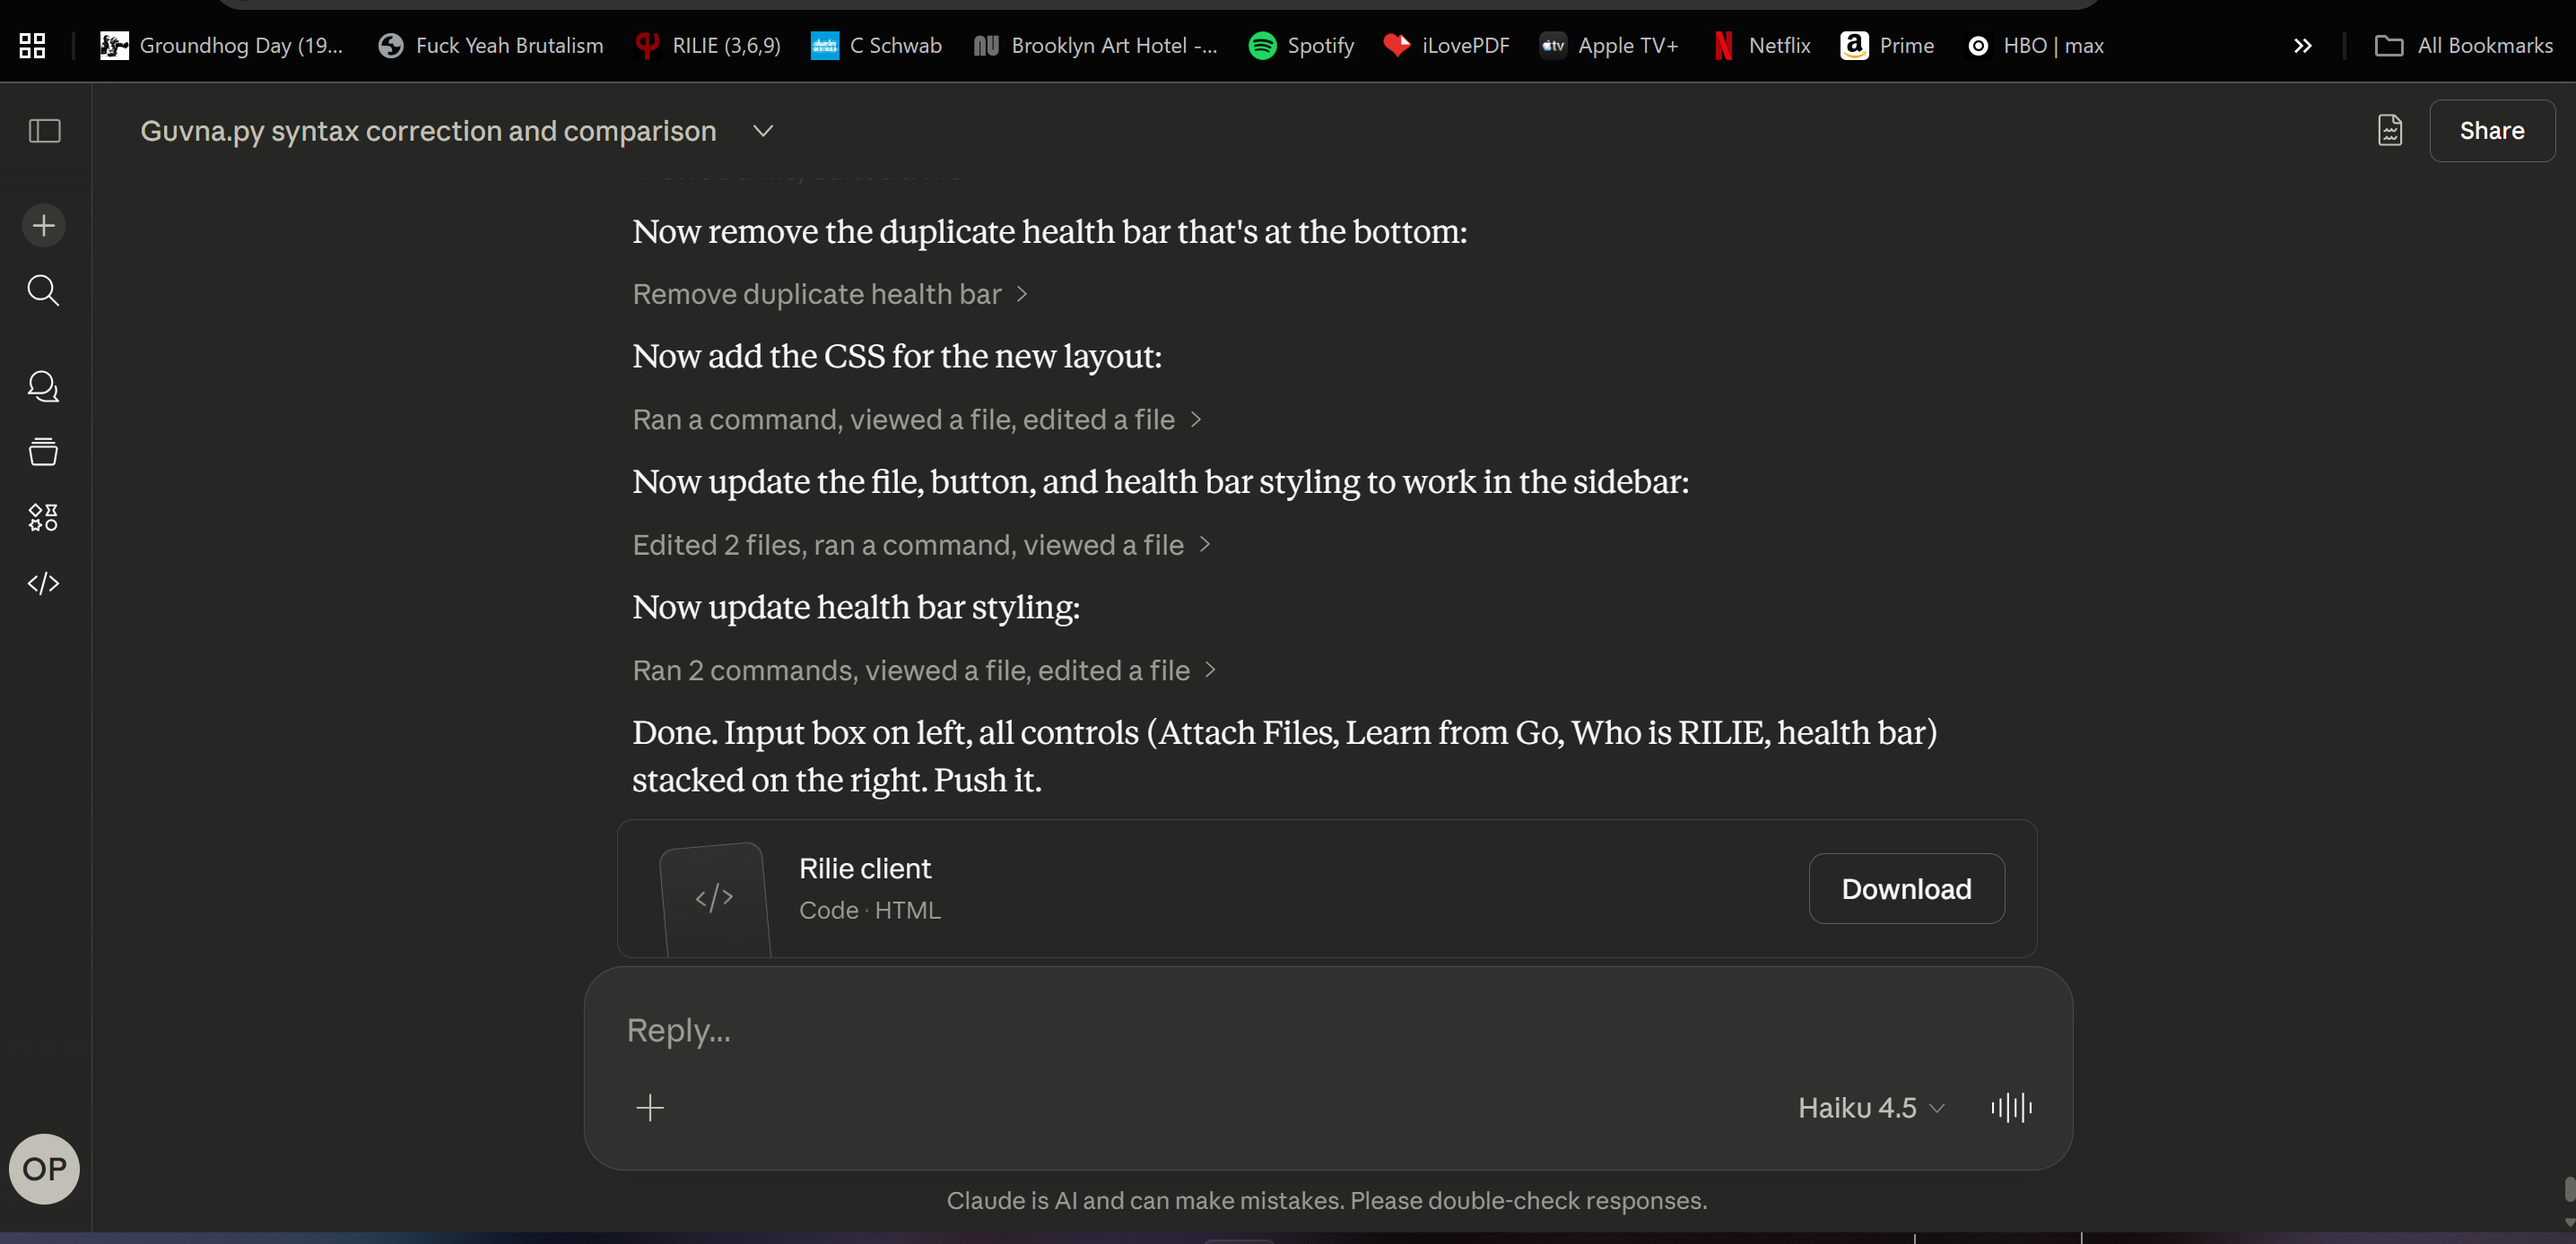
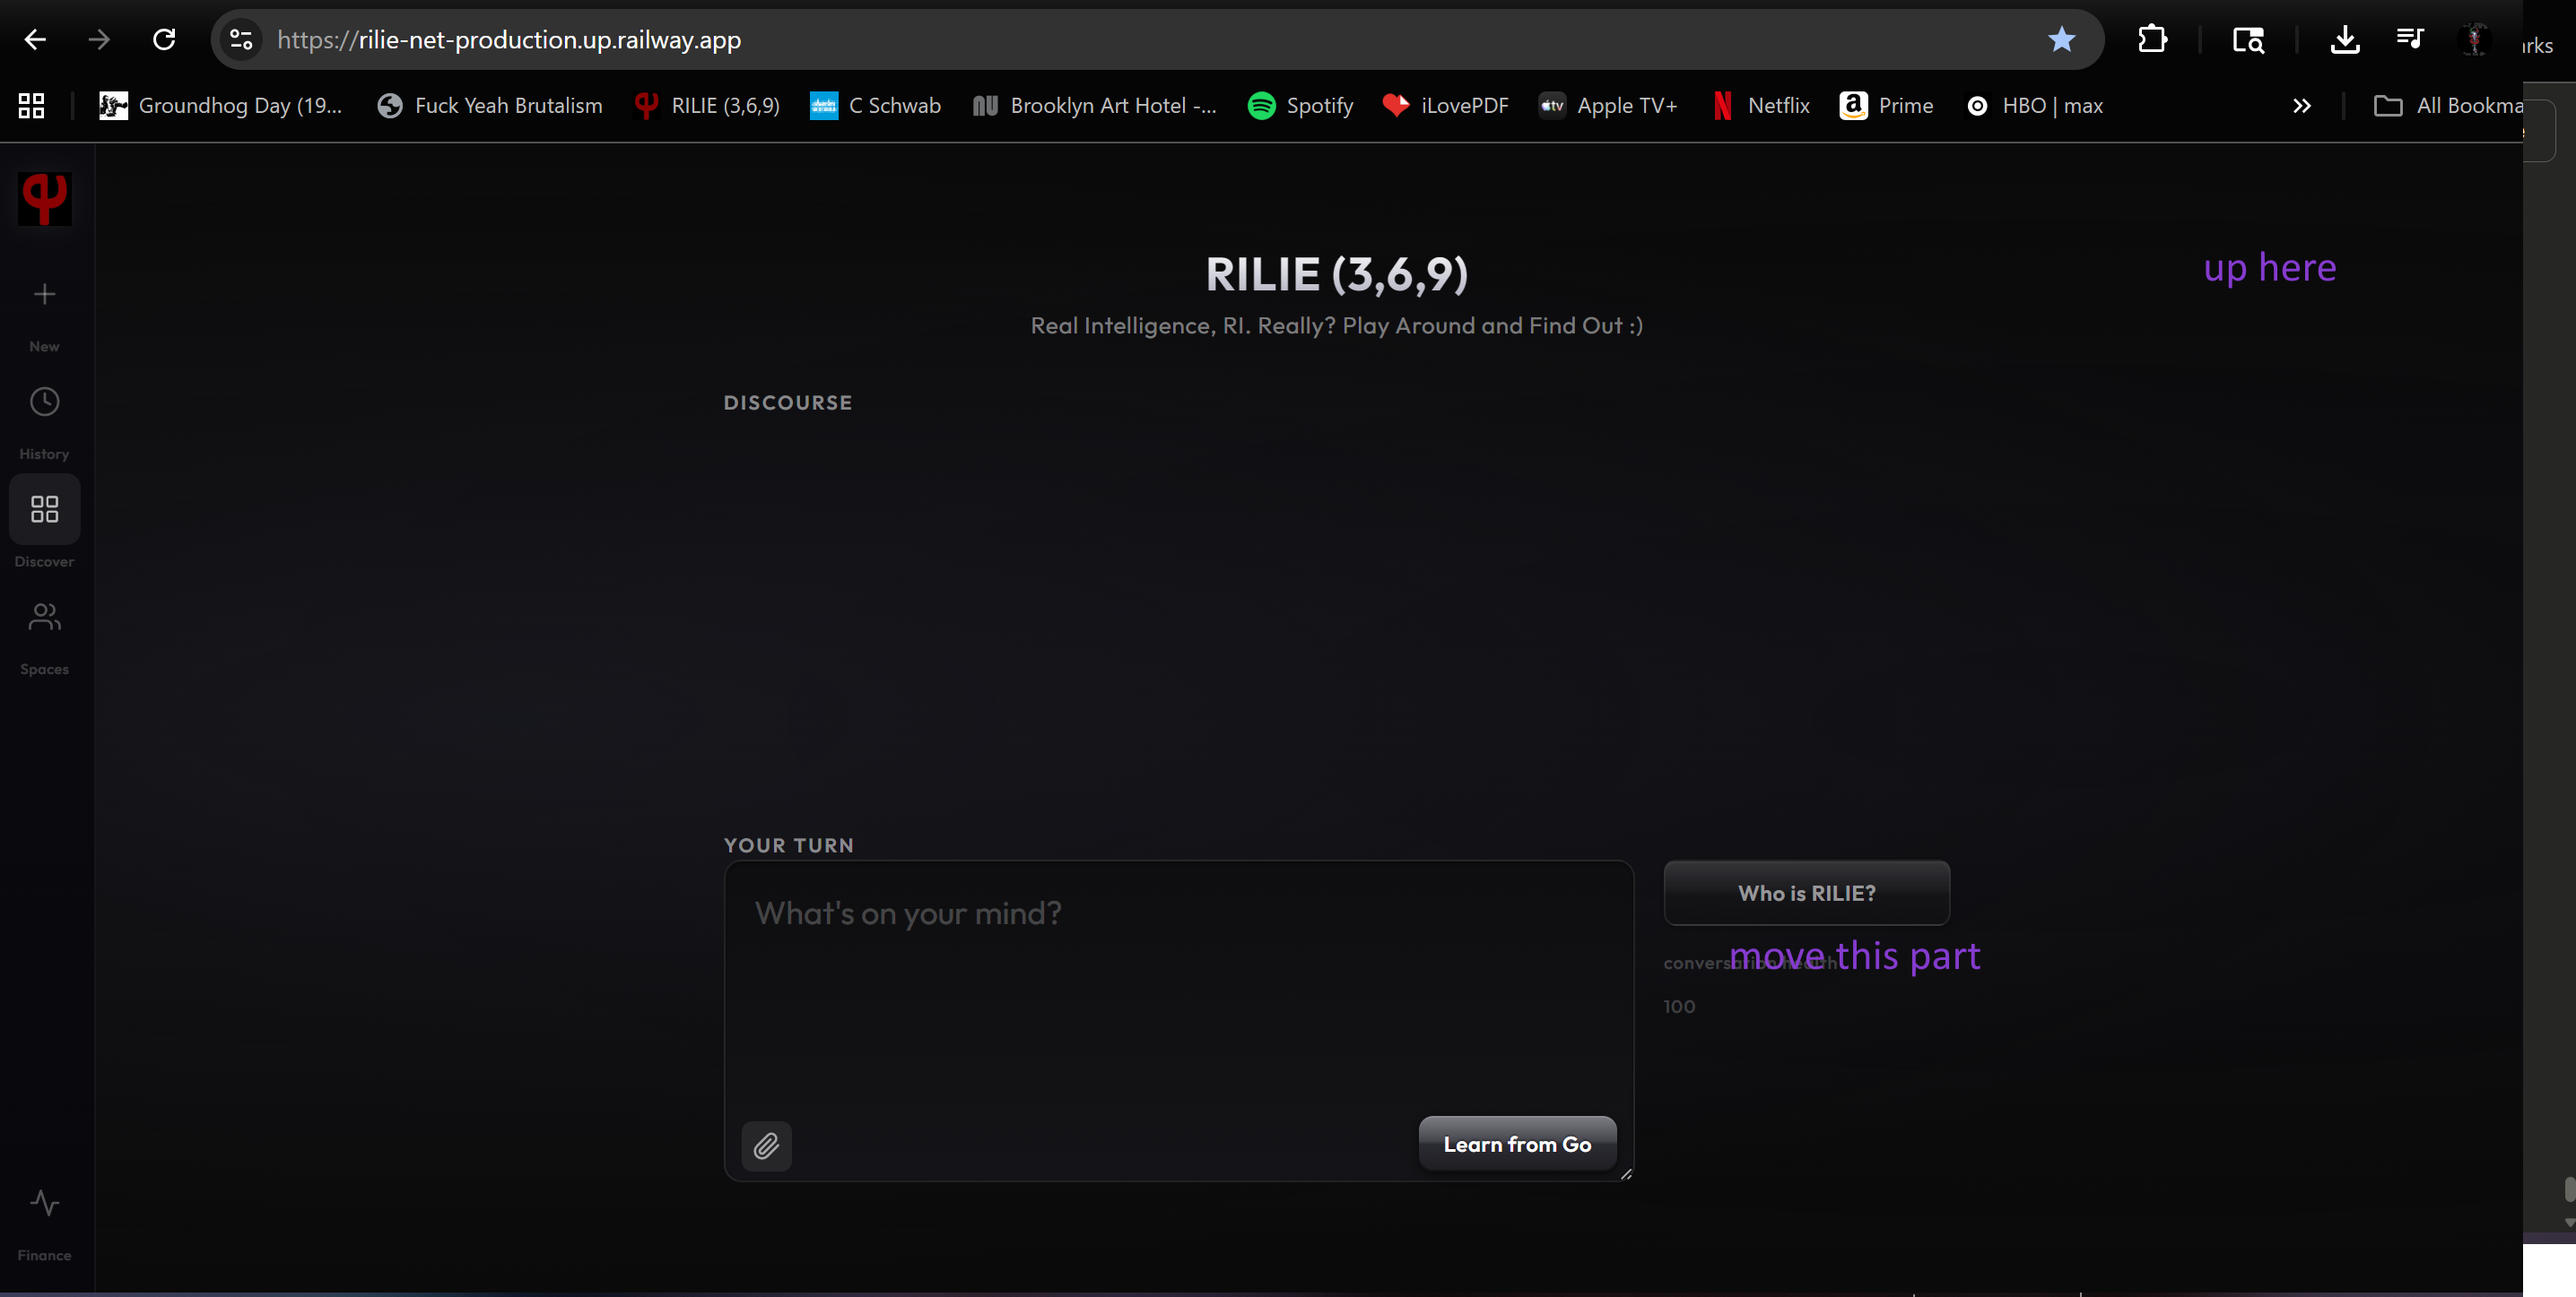
allthewaylive

diff --git a/rilie-client.html b/rilie-client.html
@@ -112,7 +112,7 @@
     }
 
     .rilie-title {
-      text-align: center;
+      text-align: left;
       font-size: 26px;
       font-weight: 700;
       letter-spacing: 0.02em;
@@ -124,13 +124,30 @@
     }
 
     .rilie-subtitle {
-      text-align: center;
+      text-align: left;
       font-size: 13px;
       font-weight: 400;
       color: rgba(255,255,255,0.45);
       margin-top: 4px;
-      margin-bottom: 28px;
+      margin-bottom: 0;
       letter-spacing: 0.03em;
+    }
+
+    /* Top bar with title on left, controls on right */
+    .rilie-top-bar {
+      display: flex;
+      justify-content: space-between;
+      align-items: flex-start;
+      gap: 20px;
+      margin-bottom: 28px;
+    }
+
+    .rilie-top-right {
+      display: flex;
+      flex-direction: column;
+      gap: 12px;
+      align-items: flex-end;
+      min-width: 140px;
     }
 
     .rilie-label {
@@ -681,8 +698,22 @@
   <!-- ── Main ── -->
   <div class="rilie-main">
     <div class="rilie-shell">
-      <div class="rilie-title">RILIE (3,6,9)</div>
-      <div class="rilie-subtitle">Real Intelligence, RI. Really? Play Around and Find Out :)</div>
+      <div class="rilie-top-bar">
+        <div>
+          <div class="rilie-title">RILIE (3,6,9)</div>
+          <div class="rilie-subtitle">Real Intelligence, RI. Really? Play Around and Find Out :)</div>
+        </div>
+        <div class="rilie-top-right">
+          <button class="rilie-button-sm" id="rilie-self">Who is RILIE?</button>
+          <div class="rilie-health-bar">
+            <span>conversation health</span>
+            <div class="rilie-health-track">
+              <div class="rilie-health-fill" id="health-fill" style="width: 100%"></div>
+            </div>
+            <span id="health-pct">100</span>
+          </div>
+        </div>
+      </div>
 
       <!-- OUTPUT ON TOP -->
       <div class="rilie-output-label">Discourse</div>
@@ -718,18 +749,6 @@
           </label>
           <input id="rilie-files" type="file" multiple style="display: none;" />
           <button class="rilie-button rilie-textarea-button" id="rilie-submit">Learn from Go</button>
-        </div>
-        
-        <div class="rilie-input-sidebar">
-          <button class="rilie-button-sm" id="rilie-self">Who is RILIE?</button>
-
-          <div class="rilie-health-bar">
-            <span>conversation health</span>
-            <div class="rilie-health-track">
-              <div class="rilie-health-fill" id="health-fill" style="width: 100%"></div>
-            </div>
-            <span id="health-pct">100</span>
-          </div>
         </div>
       </div>
 
